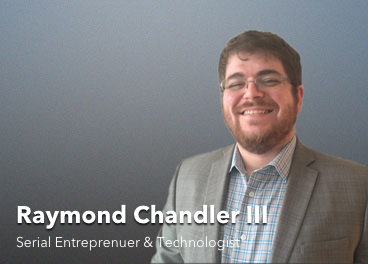
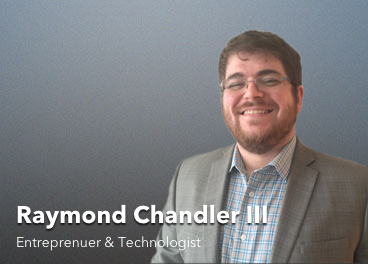
Profile updates. Minor text changes.

Changed region(s): [[0.0299, 0.8788, 0.6576, 0.9697]]

diff --git a/web/templates/index.html b/web/templates/index.html
@@ -33,14 +33,17 @@
 				<header>
 					<div class="container">
 						<h2>We are creative software specialists.</h2>
-						<p>For over 15 years we've honed our craft by sharpening our steel on the hardest problems 
-							we could find. As entreprenuers, technologists, and artists we've consistently built
-							successful software and businesses from idea, to validation, to growth. Now, we've 
-							joined forces to build the only experienced, startup focused, software consultantancy 
+						<p style="text-align: left;">For over 15 years we've honed our craft and sharpened our steel on the hardest problems 
+							we could find. As independent entreprenuers, technologists, and artists we've consistently built
+							successful software and companies from idea, to validation, to growth. Now, we've 
+							joined forces to build the most experienced, startup focused, software consultantancy 
 							firm in Central Ohio.
 						</p>
-						<p>We help entreprenuers validate, build, and grow, high quality products in a way that is 
-							both fast, and cost effective.
+						<p style="text-align: left;">We help entreprenuers validate, build, and grow, their businesses with high quality 
+                           products in a way that is both fast, and cost effective.
+                        </p>
+                        <p>
+                            We thrive in the following 3 areas:
 						</p>
 					</div>
 				</header>
@@ -105,7 +108,7 @@
 					<div class="container">
 						<h2>Listen to what our clients say.</h2>
 
-						<blockquote>Blueshift moved my team from a "half-agile" unworkable process to real Agile methods within three weeks.
+						<blockquote style="text-align:left;">Blueshift moved my team from a "half-agile" unworkable process to real Agile methods within three weeks.
 						They brought the team up to speed on using the latest front-end tooling and led by example in developing clear, concise, 
 						well-tested code and coached others to do the same. In addition, their expertise with User Experience Design 
 						was invaluable in establishing and refining the initial product vision before any code was ever written.
@@ -118,11 +121,11 @@
 						<div class="row">
 							<div class="4u 12u(narrow)">
 								<section>
-									<h3>What good students become.</h3>
+									<h2>What good students become.</h2>
 									<p>
 										As entreprenuers, we have been guided through fire and flame by the top venture capital 
-										firms in Columbus. Today we are partnering with them to bring the most highly experienced 
-										startup technology consulting team to all entreprenuers throughout Ohio.
+										firms in Columbus. Today we are partnering with them to bring the most talented and 
+                                        experienced startup technologists to entreprenuers throughout the Ohio Valley. 
                                     </p>
 
 									<footer>
@@ -132,9 +135,33 @@
 							</div>
 							<div class="8u 12u(narrow)">
 								<div class="row">
-									<div class="6u"><a href="#" class="image fit"><img src="{% static "images/pic01.png" %}" alt="" /></a></div>
-									<div class="6u"><a href="#" class="image fit"><img src="{% static "images/pic02.png" %}" alt="" /></a></div>
-									<div class="6u"><a href="#" class="image fit"><img src="{% static "images/pic04.png" %}" alt="" /></a></div>
+									<div class="6u">
+                                        <div class="image fit no-overlay">
+                                            <img src="{% static "images/pic01.png" %}" alt="" />
+                                            <span class="contact-icon-set">
+                                                <span class="contact-icon"><a href="https://www.linkedin.com/in/kitanata" target="_blank"><span class="icon fa-linkedin"></span></a></span>
+                                                <span class="contact-icon"><a href="mailto:raymond@blueshiftedtech.com" target="_blank"><span class="icon fa-envelope"></span></a></span>
+                                            </span>
+                                        </div>
+                                    </div>
+									<div class="6u">
+                                        <div class="image fit no-overlay">
+                                            <img src="{% static "images/pic02.png" %}" alt="" />
+                                            <span class="contact-icon-set-right">
+                                                <span class="contact-icon"><a href="https://www.linkedin.com/pub/david-ricupero/24/7b5/277" target="_blank"><span class="icon fa-linkedin"></span></a></span>
+                                                <span class="contact-icon"><a href="mailto:david@blueshiftedtech.com" target="_blank"><span class="icon fa-envelope"></span></a></span>
+                                            </span>
+                                        </div>
+                                    </div>
+									<div class="6u">
+                                        <div class="image fit no-overlay">
+                                            <img src="{% static "images/pic04.png" %}" alt="" />
+                                            <span class="contact-icon-set">
+                                                <span class="contact-icon"><a href="https://www.linkedin.com/in/briancostlow" target="_blank"><span class="icon fa-linkedin"></span></a></span>
+                                                <span class="contact-icon"><a href="mailto:brian@blueshiftedtech.com" target="_blank"><span class="icon fa-envelope"></span></a></span>
+                                            </span>
+                                        </div>
+                                    </div>
 								</div>
 							</div>
 						</div>
@@ -147,7 +174,7 @@
 				<header>
 					<div class="container">
 						<h2>Wired in and on deck.</h2>
-						<p>Collectively we've helped organize, lead, spoken at, and attended nearly 
+						<p style="text-align: left">Collectively we've helped organize, lead, spoken at, and attended nearly 
 						every regional technology and startup conference in the midwest. Our agency has been involved in the Python, Ruby, and 
 						JavaScript communities in Columbus, Ohio for over 5 years. Our founders are the organizers and board members of the 
 						second largest Python conference in the United States. We know our stuff and we thrive on sharing our knowledge and passion

diff --git a/web/static/css/main.css b/web/static/css/main.css
@@ -1508,6 +1508,12 @@
 			background: url("images/overlay.png");
 		}
 
+        .image.no-overlay:after {
+            background: none;
+            width: 0;
+            height: 0;
+        }
+
 		.image img {
 			display: block;
 			width: 100%;
@@ -1915,6 +1921,62 @@
 				background: rgba(255, 255, 255, 0.15);
 				box-shadow: inset 0 0 0 1px #fff;
 			}
+
+/* Contact Icon */
+    .contact-icon-set {
+        display: inline-block;
+        margin-left: 0.5em;
+        width: 100%;
+        position: absolute;
+        left: 0;
+        top: 0;
+    }
+
+    .contact-icon-set-right {
+        display: inline-block;
+        margin-right: 0.5em;
+        width: 100%;
+        position: absolute;
+        right: 0;
+        top: 0;
+        text-align: right;
+    }
+
+    .contact-icon {
+        display: inline-block;
+        position: relative;
+        margin-top: 0.5em;
+        margin-left: 0.25em;
+        margin-right: 0.25em;
+        text-align: center;
+    }
+
+        .contact-icon a {
+            display: block;
+            border-bottom: none;
+        }
+
+        .contact-icon .icon {
+            display: inline-block;
+            width: 2em;
+            height: 2em;
+            font-size: 1.25em;
+            border-radius: 100%;
+            box-shadow: inset 0 0 0 1px #666;
+            color: #666;
+            line-height: 2em;
+        }
+
+
+	.dark .contact-icon .icon {
+		background: rgba(255, 255, 255, 0.15);
+		box-shadow: inset 0 0 0 1px rgba(255, 255, 255, 0.5);
+		color: #fff;
+	}
+
+	.dark .contact-icon:before, .dark .contact-icon:after {
+		background: rgba(255, 255, 255, 0.5);
+	}
 
 /* Feature Icon */
 
